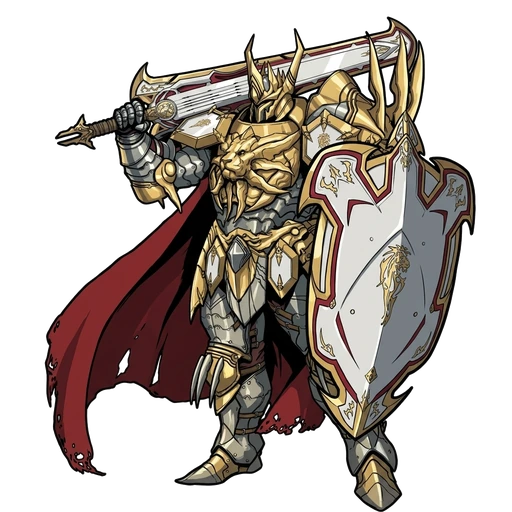
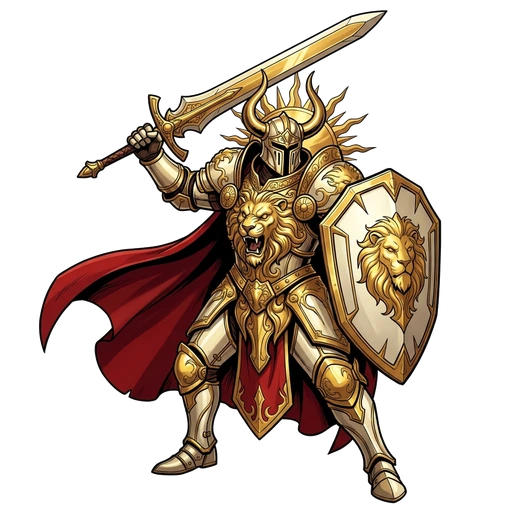
art(cards): redesign 3 Golden Legendary Generals with original command poses (~75-80% inspired, v80)

diff --git a/src/data/cardArtPrompts.ts b/src/data/cardArtPrompts.ts
@@ -1066,7 +1066,7 @@ export const CARD_ART_PROMPTS: Record<string, string> = {
   "neutral_175_emissario_lamina_espelho": "2D Dark Fantasy gothic baroque cel-shaded ink illustration, aristocratic Silver-Platinum Royal Elf envoy with silver crown, pale violet eyes, and ornate white-mithril and obsidian-trimmed armor cape, commanding floating diamond-faceted mirror-daggers and a prismatic runic sigil on pure white background.",
   "neutral_176_mestre_arqueiro_guarda_cristalina": "2D Dark Fantasy gothic baroque cel-shaded ink illustration, elite Crystal-Guard Royal Elf master archer in gleaming platinum-mithril filigree plate with subtle five-color gemstone accents, drawing a monumentalfaceted diamond-and-platinum greatbow firing a prismatic crystal arrow on pure white background.",
   "neutral_177_thalassion_alto_rei_concilio_elfico": "2D Dark Fantasy gothic baroque cel-shaded ink illustration, supreme High-King Thalassion of the Elven Council with platinum hair, tall silver crown inset with five chromatic gems, radiant white-mithril plate armor, and sculpted silver-feathered wings framed by a prismatic council halo on pure white background.",
-  "gold_179_leoric_grao_marechal_leao_solar": "2D Dark Fantasy gothic baroque cel-shaded ink illustration, colossal Golden Imperial Human Grand-Marshal Leoric in ornate gold-and-steel plate armor with sculpted lion-head breastplate, horned golden crown-helm, massive white-and-gold kite shield with crimson trim and golden lion crest, resting a wide executioner greatsword across his left shoulder with a tattered crimson-and-black war cape on pure white background.",
-  "gold_180_valerius_comandante_aguia_imperial": "2D Dark Fantasy gothic baroque cel-shaded ink illustration, broad-shouldered veteran Imperial Human Commander Valerius wearing a crisp white hood and scarf over colossal gold-and-ivory plate armor, stern face with dark mustache, goatee, and blue war-paint scar, huge sculpted golden eagle pauldrons set with glowing cyan gems, heavy golden gauntlets, and white-and-gold tabard on pure white background.",
-  "gold_181_wolfgang_marechal_escama_solar": "2D Dark Fantasy gothic baroque cel-shaded ink illustration, towering Dragon-Scale Human Marshal Wolfgang in full golden dragon-scale plate armor with horned dragon-visage helm and glowing sapphire eyes, thick white wolf-fur collar around neck, wolf-head golden pauldrons with glowing sapphire crystals, blue energy veins across breastplate, black-and-sapphire greatsword strapped across back, and tattered crimson-brown cape on pure white background."
+  "gold_179_leoric_grao_marechal_leao_solar": "2D Dark Fantasy gothic baroque cel-shaded ink illustration, colossal Golden Imperial Human Grand-Marshal Leoric in ornate gold-and-ivory plate armor with sculpted roaring lion-head breastplate, horned golden crown-helm, raising a blazing solar greatsword diagonally skyward to rally his legion while bracing an octagonal white-and-gold lion bulwark shield with a crimson war-cape on pure white background.",
+  "gold_180_valerius_comandante_aguia_imperial": "2D Dark Fantasy gothic baroque cel-shaded ink illustration, veteran Imperial Human Commander Valerius wearing a white paladin hood over heavy baroque gold-and-ivory plate armor with sculpted golden eagle pauldrons and emerald chest gem, stern bearded face with blue tactical war-markings, gripping a golden Imperial Eagle war-hammer while pointing forward in command on pure white background.",
+  "gold_181_wolfgang_marechal_escama_solar": "2D Dark Fantasy gothic baroque cel-shaded ink illustration, towering Dragon-Scale Human Marshal Wolfgang in full golden dragon-scale plate armor with horned draconic visor helm and glowing sapphire eyes, thick white wolf-fur mantle around shoulders, roaring beast pauldrons with blue sapphires, wielding a dark runic greatsword in a two-handed diagonal guard stance with swirling crimson cloak on pure white background."
 };

diff --git a/src/components/CardView.tsx b/src/components/CardView.tsx
@@ -496,7 +496,7 @@ export const CardView: React.FC<CardViewProps> = ({
           <div className={`cpa-token-art aura-${displayCard.domain}`}>
             {!imgError && displayCard.imagePath ? (
               <img
-                src={`${displayCard.imagePath}?v=65`}
+                src={`${displayCard.imagePath}?v=66`}
                 alt={displayName}
                 className="cpa-token-img"
                 onError={() => setImgError(true)}
@@ -667,7 +667,7 @@ export const CardView: React.FC<CardViewProps> = ({
 
           {!imgError && displayCard.imagePath ? (
             <img
-              src={`${displayCard.imagePath}?v=65`}
+              src={`${displayCard.imagePath}?v=66`}
               alt={displayName}
               className="card-cutout-img"
               onError={() => setImgError(true)}

diff --git a/public/sw.js b/public/sw.js
@@ -1,4 +1,4 @@
-const CACHE_VERSION = 'chromatic-pact-v79';
+const CACHE_VERSION = 'chromatic-pact-v80';
 const ASSET_CACHE = `${CACHE_VERSION}-assets`;
 
 const PRECACHE_URLS = [
